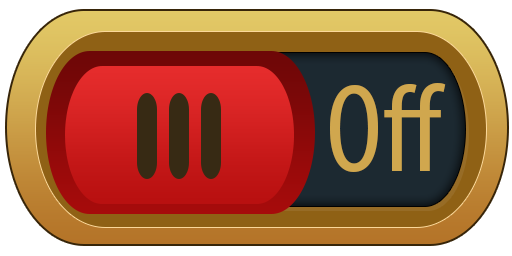
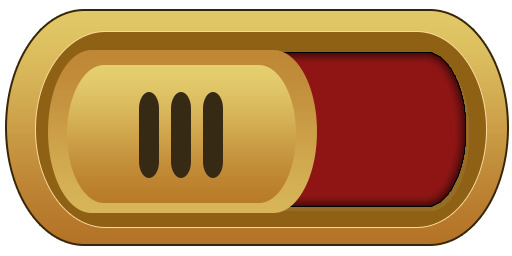
-minor change

diff --git a/Project/Client/Assets/Scripts/GamePlayLogic/UI/InGameMenu.cs b/Project/Client/Assets/Scripts/GamePlayLogic/UI/InGameMenu.cs
@@ -202,8 +202,8 @@ namespace Assets.Scripts.GamePlayLogic.UI
         }
         private void SetRollVisualState()
         {
-            diceOff.gameObject.SetActive(IsAutoRoll);
-            diceOn.gameObject.SetActive(!IsAutoRoll);
+            diceOff.gameObject.SetActive(!IsAutoRoll);
+            diceOn.gameObject.SetActive(IsAutoRoll);
         }
 
         private void OnAutoRollDiceClick()
